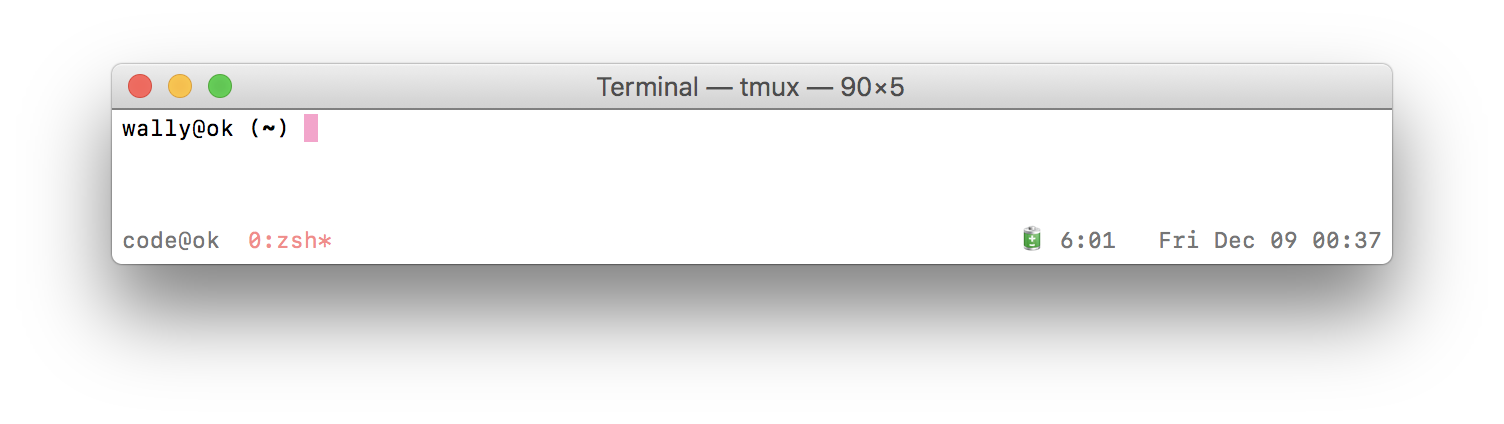
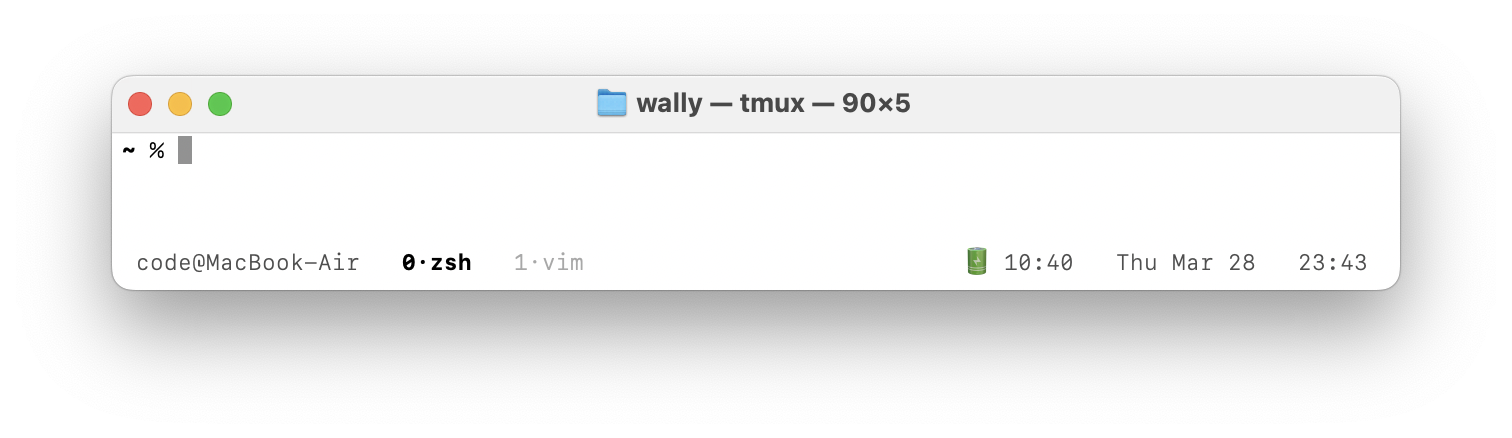
Update help and readme

Changed region(s): [[0.0625, 0.5212, 0.9375, 0.6745], [0.0625, 0.1533, 0.9375, 0.3679]]

diff --git a/README.md b/README.md
@@ -2,36 +2,44 @@
 
 `battstat` is a shell script that displays formatted information about the status of your battery. 
 
-Information is displayed in the order the format tokens are written. For example, the screenshots below show my __tmux__ status line running the command `battstat --percent-when-charged {i} {t} {p}`. This will display an icon, the time remaining when charging and discharging, and finally the percentage but only when the battery is fully charged. Format tokens can be written in any order and as many times as you like.
-
-![battery charging](https://github.com/imwally/battstat/raw/master/img/charging.png)
-![battery discharging](https://github.com/imwally/battstat/raw/master/img/discharging.png)
-![battery full charged](https://github.com/imwally/battstat/raw/master/img/charged.png)
+![battery discharging](/img/discharging.png)
 
 ## Examples
 
 There are a few ways to customize the output of `battstat`. Charging and discharging icons can be replaced with single character or multi-character strings. The `-c` flag sets the charging string and the `-d` flag sets the discharging string.
 
 ```
-$ battstat -d "🍕" {t} {i}
- 10:30  🍕
+~ % battstat -d "💀"
+11:25 74% 💀
 
-$ battstat {t} {i}
- 11:47  🔋
+~ % battstat -d "😎" -f "{i} ({t})"
+😎 (11:15)
 
-$ battstat -c "AC:" -d "BAT:" {i} {p} {t}
- BAT:  82%  12:11
+~ % battstat -c "AC:" -d "BAT:" -f "{i} {p} {t}"
+BAT: 74% 11:35
 
-$ battstat {i} {p}    
- 🔋  81%
+~ % battstat -d "Battery:" -f "{i} {p}"
+Battery: 74%
+```
 
-$ battstat -d "Battery:" {i} {p}
- Battery:  81%
+## printf Formatting
+
+`battstat` uses printf style formatting when using the `-f` flag. This means you can print replacement tokens however you want.
+
+```
+~ % battstat -f "{i}\t{t}\t({p})"               
+🔋      11:55   (74%)
+
+~ % battstat -f "{i}\nType whatever you want.\n{t}\n({p})" 
+🔋
+Type whatever you want.
+12:05
+(73%)
 ```
 
 ## macOS menu bar
 
-![bitbar screenshot](https://github.com/imwally/battstat/blob/master/img/bitbar.png)
+![bitbar screenshot](/img/bitbar.png)
 
 Using [bitbar](https://github.com/matryer/bitbar) you can add the output of `battstat` to the menu bar on macOS. There are many ways to customize the output so I suggest reading over the [writing plugins](https://github.com/matryer/bitbar#writing-plugins) section to understand what's possible.
 
@@ -40,7 +48,7 @@ The screenshot above is using the following shell script. Make sure the script i
 ```
 #!/bin/sh
 
-time=$(/usr/local/bin/battstat {t})
+time=$(/usr/local/bin/battstat -f {t})
 
 echo "($time) | size=13"
 ```
@@ -79,12 +87,14 @@ options:
     -h, --help                display help information
     -c, --charging-icon       string to display in icon's place when battery is charging
     -d, --discharging-icon    string to display in icon's place when battery is discharging
+    -f, --format              formatted output of battstat
     --percent-when-charged    only display percent when charged
 
-format:
+format replacement tokens:
     {i}    display icon
     {t}    display time remaining
     {p}    display percent
 
-    Note: There must be a space between each format token.
+example:
+    battstat -f "Cool Battery: {t} ({p})"
 ```
